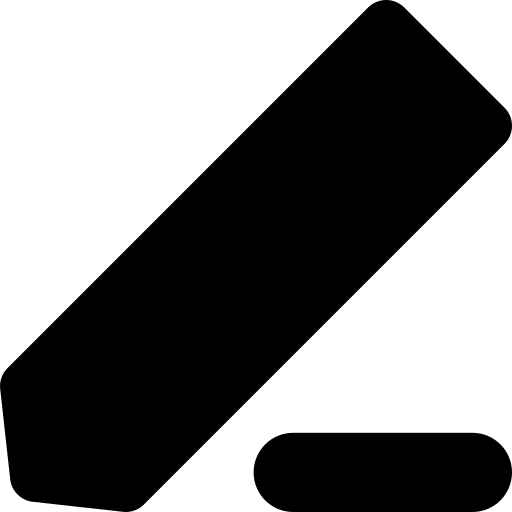
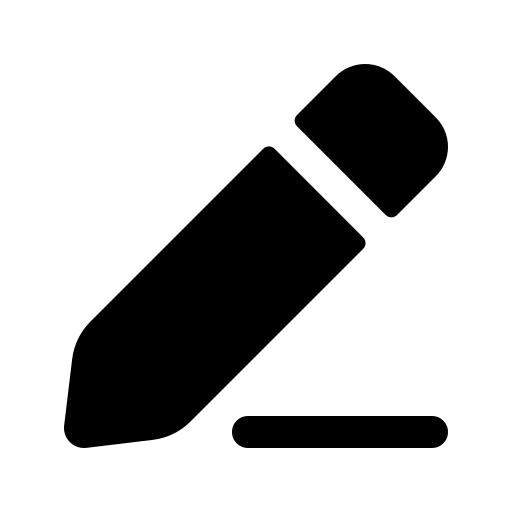
v1.0.2

Changed region(s): [[0.0, 0.0, 1.0, 1.0]]

diff --git a/src/widgets/Rock.jsx b/src/widgets/Rock.jsx
@@ -1,4 +1,4 @@
-import {useState} from 'react'
+import { useState, useRef, useEffect } from 'react'
 import triangle from '../assets/triangle.png'
 
 export default function Rock(){
@@ -36,6 +36,10 @@ export default function Rock(){
         setRockIndex(localStorage.getItem('rock-index'))
         setResult(resultik)
     }
+    const count = useRef(0)
+    useEffect(() => {
+        count.current = 0
+    }, [isRotate])
     return (
         <div className="rock block">
             <div className="rock__inputs">
@@ -60,16 +64,20 @@ export default function Rock(){
                         })
                         .map((el, index) => {
                             let now = localStorage.getItem(el).split("@");
-                            return (
-                                <RockItem
-                                    key={`${index}${now[2]}${now[3].padStart(2, "0")}${now[1]}${now[0]}${now[4]}`}
-                                    date={`${now[2]}:${now[3].padStart(
-                                        2,
-                                        "0"
-                                    )} ${now[1]}.${now[0]}`}
-                                    result={now[4]}
-                                />
-                            );
+                            if(++count.current <= 20) { // відображаємо останні 20 елементів
+                                return (
+                                    <RockItem
+                                        key={`${index}${now[2]}${now[3].padStart(2, "0")}${now[1]}${now[0]}${now[4]}`}
+                                        date={`${now[2]}:${now[3].padStart(
+                                            2,
+                                            "0"
+                                        )} ${now[1]}.${now[0]}`}
+                                        result={now[4]}
+                                    />
+                                );
+                            } else {
+                                localStorage.removeItem(el) // інші видаляємо
+                            }
                         })}
             </div>
         </div>

diff --git a/src/widgets/SleepTime.jsx b/src/widgets/SleepTime.jsx
@@ -112,7 +112,6 @@ export default function SleepTime(){
     const [result, setResult] = useState('')
 
     useEffect(() => {
-        let arrEnd = end.split('!');
         if(!end.includes('??')){
         
         let arr1 = start.split('-')[0].split('!')

diff --git a/CHANGELOG.MD b/CHANGELOG.MD
@@ -3,4 +3,7 @@
 ## Version 1.0.1
 - Added text when each of the elements is inactive.
 - Set a maximum length of 3 characters in the "Factorial" component.
-- Improved the project's architecture.
+- Improved the project's architecture.   
+## Version 1.0.2   
+- Changed the edit icon in Sleep Tracker   
+- Added display of the last 20 items in RSP (older items are removed)   
